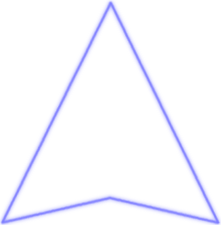
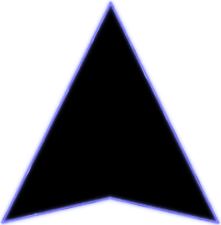
+ finished map creator. closes #7
graph creation not included
-> game play first!

diff --git a/modules/Game/scripts/Map/mapcreator.cs b/modules/Game/scripts/Map/mapcreator.cs
@@ -25,22 +25,23 @@ obstaclesAmount - the number of obstacles
 ///create Map with %size and a number of %obstacles
 ///%size = "width height"
 ///%obstacles = int
-function createMap(%size, %obstacles)
+function createMap(%size)
 {
 	//create a global instance to store all data about the map
 	$map = new ScriptObject( Map );
 	$map.Size = %size; //size of the map
 	$map.SizeX = getWord(%size, 0);
 	$map.SizeY = getWord(%size, 1);
-	$map.obstaclesAmount = %obstacles; //amount of obstacles on the map
+	$map.obstaclesAmount = $amountOfObstaclesOnMap; //amount of obstacles on the map
+	$map.obstacles = "";
 	
 	//create the border
 	$map.createBorders(%size);
 	
 	//create %obstacles random shapes on the map
-	for (%i = 0; %i < %obstacles; %i++)
+	for (%i = 0; %i < $amountOfObstaclesOnMap; %i++)
 	{
-		$map.createRandomObstacle();
+		$map.createRandomObstacle(%i);
 	}
 }
 
@@ -58,13 +59,13 @@ function Map::createBorders(%this, %size)
 	%borderPoints = %b1 SPC %b2 SPC %b3 SPC %b4 SPC %b5;
 	
 	//create VectorShape
-	%border = new ShapeVector(MapBorder);
+	%border = new ShapeVector(MapObject);
 	%border.Size = %size;
 	%border.setBodyType( static );
 	%border.Position = "0 0";
 	%border.PolyList = "-0.5 0.5 0.5 0.5 0.5 -0.5 -0.5 -0.5";
 	%border.SceneLayer = 9;
-	%border.SceneGroup = 0;
+	%border.SceneGroup = 4;
 	%border.setCollisionGroups( "1 2 3" );
 	%border.createChainCollisionShape( %borderPoints );
 	%border.setFixedAngle(true);
@@ -77,41 +78,90 @@ function Map::createBorders(%this, %size)
 }
 
 ///creates a single Obstacle
-function Map::createRandomObstacle(%this)
+function Map::createRandomObstacle(%this, %id)
 {
 	//create a random number of points located somewhere in a space between
-	//(-0.5/0.5) and (0.5/-0.5)
-	%amountPoints = getRandom(0, $obstacleMaxPointAmount);
-	%points = "";
-	%pointno1 = "";
-	for (%i = 0; %i < %amountPoints; %i++)
-	{
-		%point = getRandom(-0.5, 0.5) SPC getRandom(-0.5, 0.5);
-		%points = %point SPC %points;
-		if (%i == 0)
-		{
-			%pointno1 = %point;
-		}
-	}
-	%points = %pointno1 SPC %points;
+	//(-0.5/0.5) and (0.5/-0.5):
 	
+	//declare an alpha angle, a random amount will be added to it each round
+	//the next point lays on the circle around the center of the obstacle with a radius of r
+	//and at the angle of alpha
+	%averageAngle = 360 / $obstacleAveragePointAmount;
+	%alpha = getRandom(%averageAngle / 2, %averageAngle * 1.5);
+	%radius = 0.5;
+	%points = "";
+	%point1 = "";
+	while (%alpha <= 359)
+	{
+		//calculate the radiant of %alpha
+		%radiant = mDegToRad(%alpha);
+		//calculate the local %X and %Y coordinates from that:
+		%x = mCos(%radiant) * %radius;
+		%y = mSin(%radiant) * %radius;
+		
+		%point = %x SPC %y;
+		//add to list
+		if (%points $= "")
+		{
+			%points = %point;
+			%point1 = %point;
+		}
+		else
+		{
+			%points = %point SPC %points;
+		}
+		//add a random value to alpha
+		%alpha += getRandom(%averageAngle / 2, %averageAngle * 1.5);
+	}
 	//create the obstacle
-	%obstacle = new ShapeVector(Obstacle);
-	%obstacle.Size = getRandom(1, $obstacleMaxSize) SPC getRandom(1, $obstacleMaxSize);
-	%obstacle.SizeX = getWord(%obstacle.Size, 0);
-	%obstacle.SizeY = getWord(%obstacle.Size, 1);
+	%obstacle = new ShapeVector(MapObject);
+	%obstacle.id = %id;
+	//get a random Size for X and Y
+	%size = getRandom($obstacleMaxSize / 2, $obstacleMaxSize);
+	%obstacle.Size =  %size SPC %size;
+	%obstacle.SizeX = %size;
+	%obstacle.SizeY = %size;
 	%obstacle.setBodyType( static );
 	//calculate a Random Position, consider the size of this obstacle as well
 	%posX = getRandom((-$map.SizeX + %obstacle.SizeX) / 2, ($map.SizeX - %obstacle.SizeX) / 2);
 	%posY = getRandom((-$map.SizeY + %obstacle.SizeY) / 2, ($map.SizeY - %obstacle.SizeY) / 2);
 	%obstacle.Position = %posX SPC %posY;
 	%obstacle.PolyList = %points;
-	%obstacle.SceneLayer = 9;
-	%obstacle.SceneGroup = 0;
-	%obstacle.setCollisionGroups( "1 2 3" );
+	%obstacle.SceneLayer = 8;
+	%obstacle.SceneGroup = 4;
+	%obstacle.setCollisionGroups( "1 2 3 4" );
+	%obstacle.setCollisionCallback(true);
+	%points = multiplyString(%point1 SPC %points, %size);
 	%obstacle.createChainCollisionShape( %points );
+	%obstacle.setFillMode(true);
+	%obstacle.setFillColor("0 0 0 1");
 	%obstacle.setFixedAngle(true);
 	
 	//add to Scene
 	Level.add(%obstacle);
+	
+	if ($map.obstacles $= "")
+	{
+		$map.obstacles = %obstacle;
+	}
+	else
+	{
+		$map.obstacles = $map.obstacle SPC %obstacle;
+	}
+	
+	//create a random number of health and magic packages around the obstacle
+	%packages = %size * %size / 12;
+	
+	for (%i = 0; %i < %packages; %i++)
+	{
+		createPackage(%obstacle);
+	}
+}
+
+function MapObject::onCollision(%this, %obj, %details)
+{
+	//delete a Projectile
+	//this must happen in this onCollision-function and not the one in the projectile class because fuck you, that's why.
+	if (%obj.SceneGroup == 3)
+		schedule(16, 0, deleteObj, %obj);
 }

diff --git a/modules/Game/scripts/Elements/packages.cs b/modules/Game/scripts/Elements/packages.cs
@@ -1,0 +1,82 @@
+// ============================================================
+// Project            :  BachelorThesis
+// File               :  .\modules\Game\scripts\Elements\packages.cs
+// Copyright          :  
+// Author             :  Stephen
+// Created on         :  Montag, 4. November 2013 22:10
+//
+// Editor             :  TorqueDev v. 1.2.3430.42233
+//
+// Description        :  
+//                    :  
+//                    :  
+// ============================================================
+
+//Classes
+//Projectile
+/*
+Fields:
+healType - determines whether it heals HP or MP
+*/
+
+///create a Package around an obstacle
+function createPackage(%obstacle)
+{
+	//calculate Position
+	%posX = "";
+	%posY = "";
+	%obssize = %obstacle.SizeX;
+	%obsPosX = getWord(%obstacle.Position, 0);
+	%obsPosY = getWord(%obstacle.Position, 1);
+	//create random Position and check if it is inside the map borders
+	%posX = %obsPosX + getRandom(-%obssize * 0.6, %obssize * 0.6);
+	%posY = %obsPosY + getRandom(-%obssize * 0.6, %obssize * 0.6);
+	//if so, return
+	if (%posX + 0.5 < $map.SizeX / 2 &&
+		%posX - 0.5 > -$map.SizeX / 2 &&
+		%posY + 0.5 > $map.SizeY / 2 &&
+		%posY - 0.5 > -$map.SizeY / 2)
+			return;
+		
+	//create Package
+	%pack = new ShapeVector(Package);
+	//determine whether it contains HP or MP
+	%pack.healType = "";
+	%healType = getRandom(0, 1);
+	if (%healType == 0)
+	{
+		%pack.healType = "HP";
+		%pack.setLineColor( 0.5, 1, 0.5);
+	}
+	else
+	{
+		%pack.healType = "MP";
+		%pack.setLineColor( 0.5, 0.5, 1);
+	}
+	//create Graphics
+ 	%pack.setIsCircle( true );
+	%pack.setCircleRadius( 0.5 );
+	%pack.setFillMode(true);
+	%pack.setFillColor("0 0 0");
+	
+	
+	%pack.Position = %posX SPC %posY;
+	
+	//set Scene related Properties
+	%pack.SceneGroup = 5;
+	%pack.SceneLayer = 15;
+	
+	//physics
+	%pack.createCircleCollisionShape( 0.25 );
+	%pack.setCollisionGroups( 4, 5 );
+	%pack.setCollisionCallback(true);
+	%pack.setFixedAngle(true);
+	
+	//add to Scene
+	Level.add(%pack);
+}
+
+function Package::setBodyTypeToStatic(%this)
+{
+	%this.setBodyType( static );
+}

diff --git a/modules/Game/scripts/Elements/projectile.cs b/modules/Game/scripts/Elements/projectile.cs
@@ -28,15 +28,14 @@ function createProjectile(%position, %direction, %speed, %addVeloX, %addVeloY, %
 	%shot = new Sprite(Projectile);
 	%shot.setBodyType( dynamic );
 	%shot.Position = %position;
-	%shot.Size = "1 1";
+	%shot.Size = "0.7 0.7";
 	%shot.setLinearVelocityPolar(%direction, %speed);
 	%shot.SceneLayer = 11;
 	%shot.SceneGroup = 3;
 	%shot.Image = "Game:Projectile";
-	%shot.createCircleCollisionShape(0.5);
-	%shot.setCollisionCallback(true);
-	%shot.setFixedAngle(true);
-	%shot.setLinearDamping(0);
+	%shot.createCircleCollisionShape(0.35);
+	%shot.setCollisionGroups( "0 1 4" );
+	%shot.setCollisionCallback( true );
 	%shot.owner = %owner;
 	
 	//adjust color Value and Collision Groups
@@ -60,7 +59,9 @@ function createProjectile(%position, %direction, %speed, %addVeloX, %addVeloY, %
 	Level.add(%shot);
 }
 
+///is called upon a collision with the enemy
 function Projectile::onCollision(%this, %obj, %details)
 {
-	
+	//delete the Projectile
+	schedule(16, 0, deleteObj, %this);
 }

diff --git a/modules/Game/scripts/Common Scripts/functions.cs b/modules/Game/scripts/Common Scripts/functions.cs
@@ -1,0 +1,31 @@
+// ============================================================
+// Project            :  BachelorThesis
+// File               :  .\modules\Game\scripts\Common Scripts\functions.cs
+// Copyright          :  
+// Author             :  Stephen
+// Created on         :  Montag, 4. November 2013 16:56
+//
+// Editor             :  TorqueDev v. 1.2.3430.42233
+//
+// Description        :  
+//                    :  
+//                    :  
+// ============================================================
+
+//Help Functions:
+//MultiplyString
+
+///multiplies all elements of %string with %a
+function multiplyString(%string, %a)
+{
+	for (%i = 0; %i < %string.count; %i++)
+	{
+		%string = setWord(%string, %i, getWord(%string, %i) * %a);
+	}
+	return %string;
+}
+
+function deleteObj(%obj)
+{
+	%obj.delete();
+}

diff --git a/modules/Game/main.cs b/modules/Game/main.cs
@@ -11,14 +11,16 @@ function Game::create()
 	exec("./scripts/controls/charamovement.cs");
 	exec("./scripts/elements/character.cs");
 	exec("./scripts/elements/projectile.cs");
-	exec("./scripts/constants.cs");
+	exec("./scripts/elements/packages.cs");
+	exec("./scripts/common scripts/constants.cs");
+	exec("./scripts/common scripts/functions.cs");
 	exec("./scripts/map/mapcreator.cs");
 	
 	createSceneWindow();
 	
 	createCharacter();
 	
-	createMap("200 200", 5);
+	createMap($mapSize SPC $mapSize);
 }
 
 function Game::destroy()

diff --git a/modules/Game/scripts/Controls/charamovement.cs b/modules/Game/scripts/Controls/charamovement.cs
@@ -27,7 +27,6 @@ function CharaMovement::Init_controls( %this )
 	charcontrols.bindCmd(keyboard, "d", "$character.walkright();", "$character.stopwalkright();");
 	charcontrols.bindCmd(keyboard, "w", "$character.walkup();", "$character.stopwalkup();");
 	charcontrols.bindCmd(keyboard, "s", "$character.walkdown();", "$character.stopwalkdown();");
-	charcontrols.bindCmd(keyboard, "space", "$character.startSprint();", "$character.stopSprint();");
 	
 	//Push the ActionMap on top of the stack
 	charcontrols.push();

diff --git a/modules/Game/scripts/Elements/character.cs b/modules/Game/scripts/Elements/character.cs
@@ -48,12 +48,12 @@ function createCharacter()
 	$character.setCollisionGroups( None );
 	$character.setCollisionCallback(true);
 	$character.setFixedAngle(true);
-	$character.setLinearDamping(0.5);
+	$character.setLinearDamping(1.5);
 	
 	//States Properties:
 	//Movement
 	$character.maxSpeed = 15;
-	$character.acceleration = 2;
+	$character.acceleration = 3;
 	
 	//Shooting
 	$character.shootingFrequency = 350;

diff --git a/modules/AppCore/1/scripts/defaultPreferences.cs b/modules/AppCore/1/scripts/defaultPreferences.cs
@@ -62,7 +62,7 @@ $pref::Video::disableVerticalSync = 1;
 $pref::Video::displayDevice = "OpenGL";
 $pref::Video::preferOpenGL = 1;
 $pref::Video::fullScreen = 0;
-$pref::Video::defaultResolution = "1366 768";
+$pref::Video::defaultResolution = "1920 1080";
 $pref::Video::windowedRes = "1280 720 32";
 $pref::OpenGL::gammaCorrection = 0.5;
 
